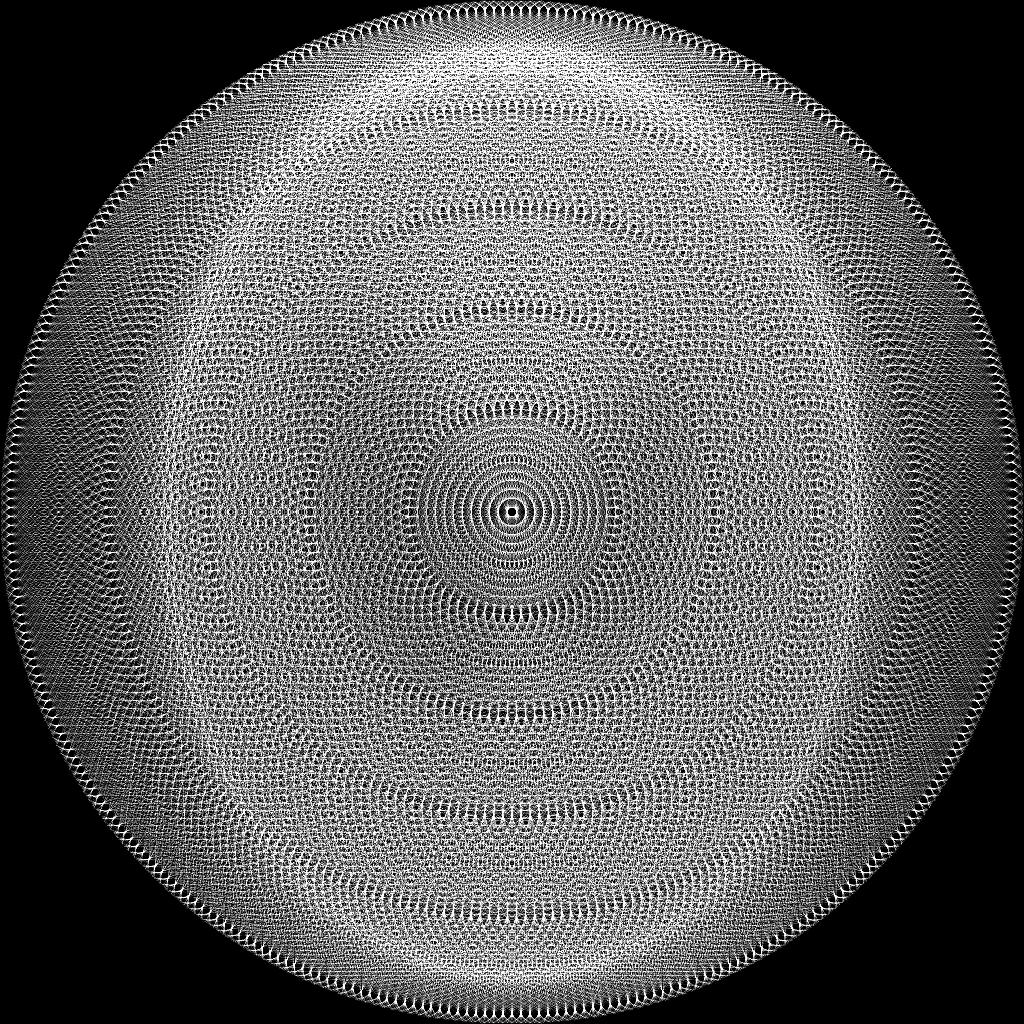
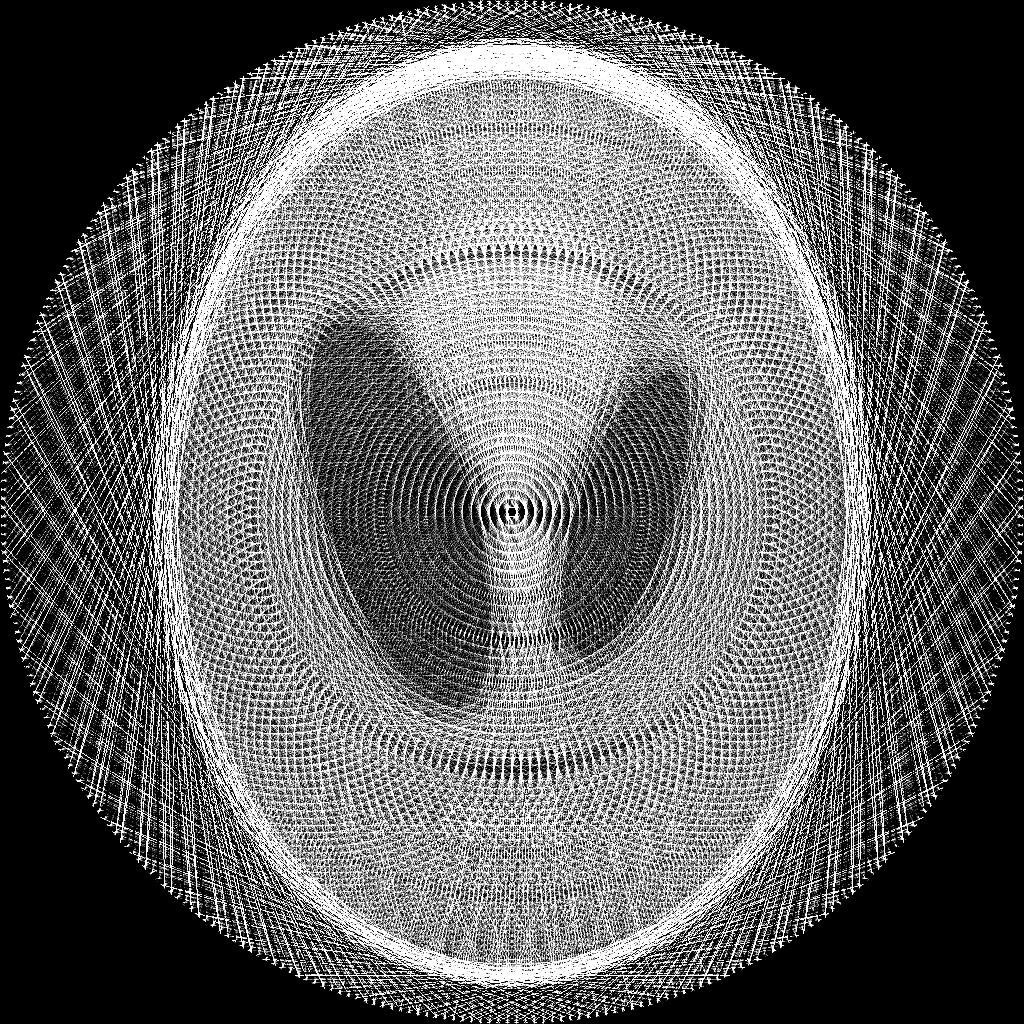
adjusted percentiles according to alpha

diff --git a/Backend/Tomograph.py b/Backend/Tomograph.py
@@ -81,6 +81,11 @@ class Tomograph:
         reconstructedImages = dict()
 
         angles = np.linspace(0, 360, int(360 // alpha))
+        if len(angles) <= 2:
+            percentiles = (30,90)
+        else:
+            percentiles = (40,80)
+
         for idx, angle in enumerate(angles):
 
             for i in range(numberOfEmittersAndDetectors):
@@ -94,7 +99,7 @@ class Tomograph:
 
             reconstructedImageNormalized = 255 * (reconstructedImage - np.min(reconstructedImage)) / (
                         np.max(reconstructedImage) - np.min(reconstructedImage))
-            low, high = np.percentile(reconstructedImageNormalized, (30,90))
+            low, high = np.percentile(reconstructedImageNormalized, percentiles)
             reconstructedImageNormalized = exposure.rescale_intensity(reconstructedImageNormalized, in_range=(low, high))
             if not testing:
                 reconstructedImages[idx + 1] = reconstructedImageNormalized
@@ -140,7 +145,7 @@ class Tomograph:
             sinogramDisplay[-i:, :] = sinogram[-i:, :]
             sinograms[i] = sinogramDisplay
 
-
+        ''''''
         plt.imshow(sinograms[maxIter], cmap='gray')
         plt.title('Sinogram')
         plt.show()

diff --git a/Backend/main.py b/Backend/main.py
@@ -1,7 +1,7 @@
 from Backend.Tomograph import Tomograph
 
 tomograph = Tomograph()
-tomograph.run("../ExampleImages/Shepp_logan.jpg", 10, 180, 180, False, None,
+tomograph.run("../ExampleImages/Shepp_logan.jpg", 1, 180, 180, True, None,
               False, dict(
     PatientName='Test',
     PatientID='001',
